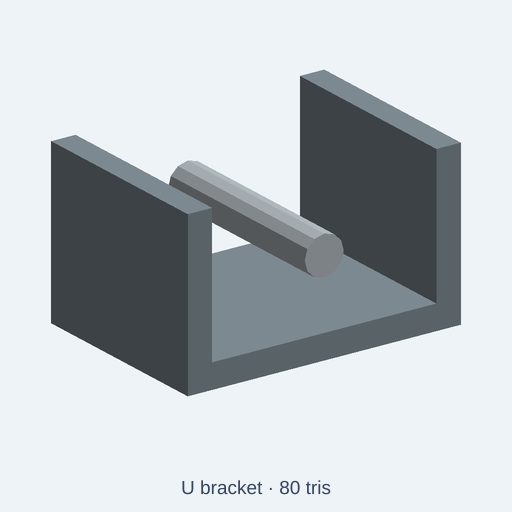
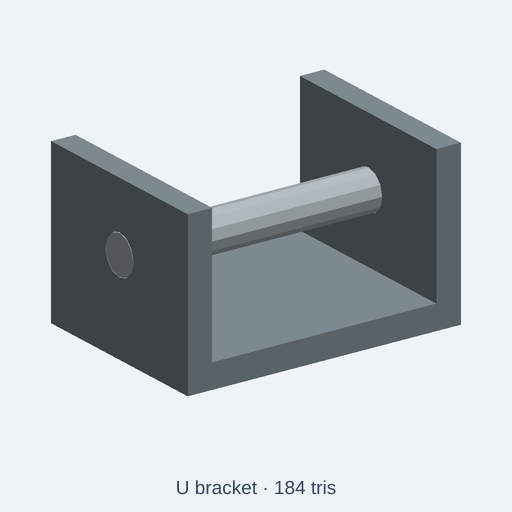
fix(catalog): engage U-bracket cross pin through real ear bores

diff --git a/tests/integration/catalog/uBracketPinEngagement.test.ts b/tests/integration/catalog/uBracketPinEngagement.test.ts
@@ -1,0 +1,83 @@
+// SPDX-License-Identifier: MIT
+// CC0 geometry identity only. Does not assert load capacity or tolerances.
+import { beforeAll, describe, expect, it } from 'vitest';
+import { readFileSync } from 'node:fs';
+import { resolve } from 'node:path';
+import { NodeIO } from '@gltf-transform/core';
+import { initOcct } from '../../../src/kernel/backends/occt/occtBackend';
+import { buildCatalogAssetWithGlb } from '../../../src/agent/catalog/buildCatalog';
+import { runAndExport } from '../../../src/agent/script-runtime/export';
+const root=resolve(import.meta.dirname,'../../..');
+const file='catalog/kits/standard-components/u-bracket.kcad.ts';
+const source=readFileSync(resolve(root,file),'utf8');
+type V=[number,number,number];type T=[V,V,V];
+async function triangles(glb:Uint8Array) {
+ const doc=await new NodeIO().readBinary(glb),out=new Map<string,T[]>();
+ for(const n of doc.getRoot().listNodes()) {
+  if(!n.getMesh())continue;const m=n.getWorldMatrix(),t:T[]=[];
+  for(const p of n.getMesh()!.listPrimitives()) {
+   const pos=p.getAttribute('POSITION')!,ix=p.getIndices();
+   for(let i=0;i<(ix?.getCount()??pos.getCount());i+=3)
+    t.push([0,1,2].map(j=>{
+     const v=pos.getElement(ix?ix.getScalar(i+j):i+j,[]);
+     return [0,1,2].map(k=>1000*(m[k]!*v[0]!+m[k+4]!*v[1]!+m[k+8]!*v[2]!+m[k+12]!)) as V;
+    }) as T);
+  }
+  out.set(n.getName(),t);
+ }
+ return out;
+}
+const xlim=(t:T[]):[number,number]=>{
+ const v=t.flatMap(a=>a.map(p=>p[0]));return [Math.min(...v),Math.max(...v)];
+};
+const sub=(a:V,b:V):V=>[a[0]-b[0],a[1]-b[1],a[2]-b[2]];
+const dot=(a:V,b:V)=>a[0]*b[0]+a[1]*b[1]+a[2]*b[2];
+const cross=(a:V,b:V):V=>[a[1]*b[2]-a[2]*b[1],a[2]*b[0]-a[0]*b[2],a[0]*b[1]-a[1]*b[0]];
+function hit(tris:T[],p:V,d:V) {
+ return tris.some(([a,b,c])=>{
+  const e1=sub(b,a),e2=sub(c,a),h=cross(d,e2),det=dot(e1,h);
+  if(Math.abs(det)<1e-9)return false;
+  const f=1/det,q=sub(p,a),u=f*dot(q,h),r=cross(q,e1),v=f*dot(d,r),t=f*dot(e2,r);
+  return u>=-1e-7&&v>=-1e-7&&u+v<=1+1e-7&&t>1e-6&&t<120;
+ });
+}
+function accept(p:Map<string,T[]>,s:number){
+ expect([...p.keys()].sort()).toEqual(['back','cross-pin','left-ear','right-ear']);
+ const [lo,hi]=xlim(p.get('cross-pin')!);
+ expect(lo).toBeCloseTo(-28*s,1);expect(hi).toBeCloseTo(28*s,1);
+ for(const [name,x] of [['left-ear',-25.5],['right-ear',25.5]] as const){
+  const ear=p.get(name)!;const [a,b]=xlim(ear);
+  expect(lo).toBeLessThanOrEqual(a);expect(hi).toBeGreaterThanOrEqual(b);
+  // Authored Z becomes GLB Y. The through-hole is open along X.
+  expect(hit(ear,[(x-7)*s,19*s,0],[1,0,0])).toBe(false);
+  expect(hit(ear,[(x-7)*s,28*s,0],[1,0,0])).toBe(true);
+ }
+}
+async function variant(code:string){
+ const e=await runAndExport({code,fileName:'u-bracket.kcad.ts',
+  scriptDir:resolve(root,'catalog/kits/standard-components'),format:'glb',
+  options:{format:'glb',style:'lowpoly',lowpoly:{maxTriangles:320}}});
+ expect(e.diagnostics.filter(d=>d.severity==='error')).toEqual([]);
+ return triangles(e.bytes);
+}
+beforeAll(async()=>{await initOcct();},30000);
+describe('U-bracket pin and real bores',()=>{
+ it('has an X-axis GLB pin engaging both perforated ears',async()=>{
+  const {asset,glb}=await buildCatalogAssetWithGlb(root,file);
+  expect(asset.description).toMatch(/not manufacturer CAD or load-rated/i);
+  expect(asset.stats.triangles).toBeLessThanOrEqual(asset.triangleBudget);
+  accept(await triangles(glb),1);
+ },30000);
+ it('rejects the original wrong X-axis placement of the pin',async()=>{
+  const old=source.replace('cylinder(56*s,4*s,16)\n  .rotateY(90).translate(-28*s,0,19*s)',
+   'cylinder(40*s,4*s,10).rotateX(90).translate(0,20*s,19*s)');
+  expect(old).not.toBe(source);
+  const p=await variant(old),[a,b]=xlim(p.get('cross-pin')!);
+  expect(a).toBeGreaterThan(-5);expect(b).toBeLessThan(5);
+  expect(b).toBeLessThan(xlim(p.get('right-ear')!)[0]);
+ },30000);
+ it('preserves open bores and pin overlap across size extremes',async()=>{
+  for(const [size,s] of [['compact',.75],['large',1.25]] as const)
+   accept(await variant(source.replace("param('size', 'standard'","param('size', '"+size+"'")),s);
+ },60000);
+});

diff --git a/catalog/kits/standard-components/u-bracket.kcad.ts b/catalog/kits/standard-components/u-bracket.kcad.ts
@@ -3,7 +3,7 @@ meta({
   name: 'u-bracket',
   license: 'CC0-1.0',
   title: 'U bracket',
-  description: 'Open-top channel mounting bracket with a flat back and two parallel side ears Knobs: model size, steel, stainless steel.',
+  description: 'Illustrative CC0 low-poly U-channel bracket with an X-axis pin through both bored side ears. Not manufacturer CAD or load-rated hardware. Knobs: model size, steel, stainless steel.',
   tags: ['u bracket', 'channel bracket', 'mounting bracket', 'clevis'],
   kit: 'standard-components',
   category: 'attachment',
@@ -25,7 +25,14 @@ const s = size.value === 'compact' ? 0.75 : size.value === 'large' ? 1.25 : 1;
 const block = (x: number, y: number, z: number, w: number, d: number, h: number) => box(w, d, h).translate(x, y, z);
 const a = assembly('u-bracket');
 a.part('back',block(-28*s,-20*s,0,56*s,40*s,5*s).color(steel));
-a.part('left-ear',block(-28*s,-20*s,5*s,5*s,40*s,28*s).color(steel));
-a.part('right-ear',block(23*s,-20*s,5*s,5*s,40*s,28*s).color(steel));
-a.part('cross-pin',cylinder(40*s,4*s,10).rotateX(90).translate(0,20*s,19*s).color(stainless));
+// The cheeks are on opposite X sides; the removable pin must run on X,
+// through matching, open bores, not float along the Y depth of the bracket.
+const earBore = (x: number) => cylinder(7*s,4.15*s,16)
+  .rotateY(90).translate(x*s,0,19*s);
+a.part('left-ear',block(-28*s,-20*s,5*s,5*s,40*s,28*s)
+  .subtract(earBore(-29)).color(steel));
+a.part('right-ear',block(23*s,-20*s,5*s,5*s,40*s,28*s)
+  .subtract(earBore(22)).color(steel));
+a.part('cross-pin',cylinder(56*s,4*s,16)
+  .rotateY(90).translate(-28*s,0,19*s).color(stainless));
 return a.model();
